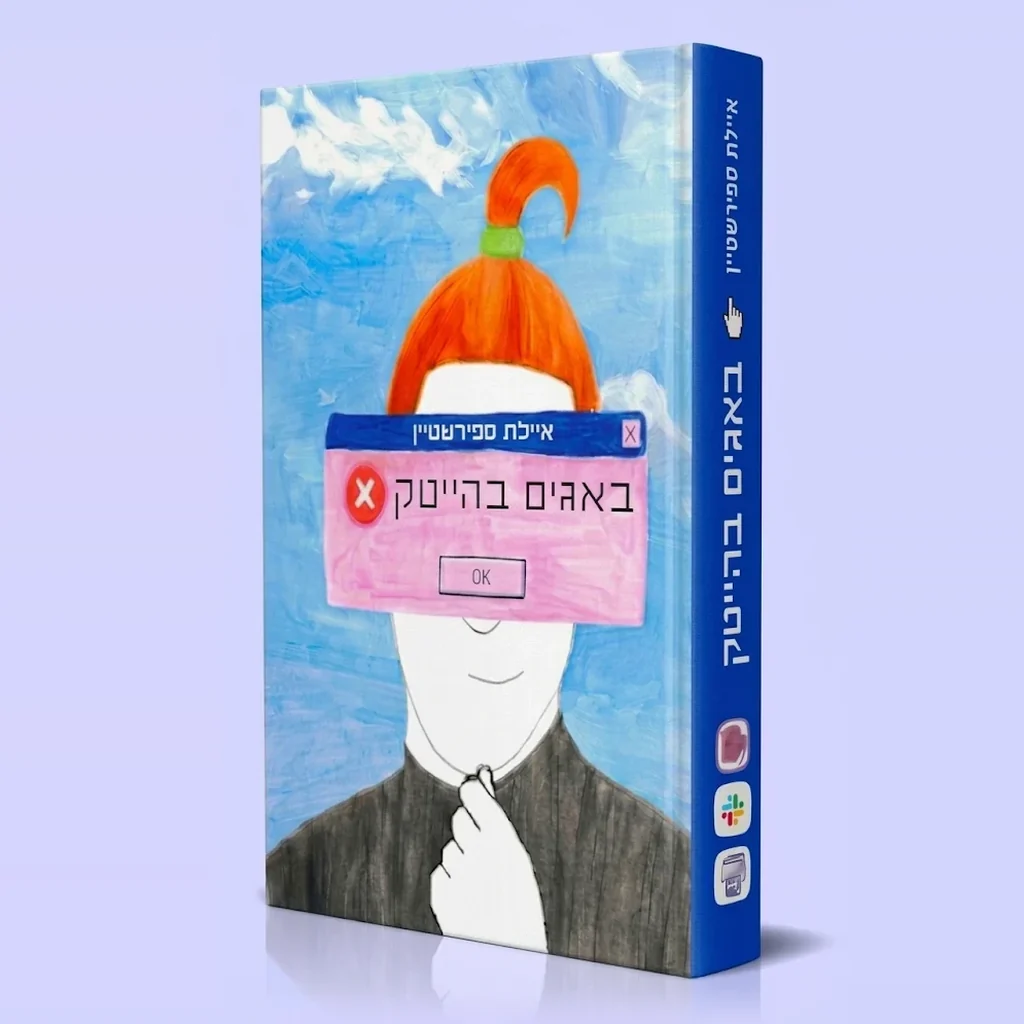
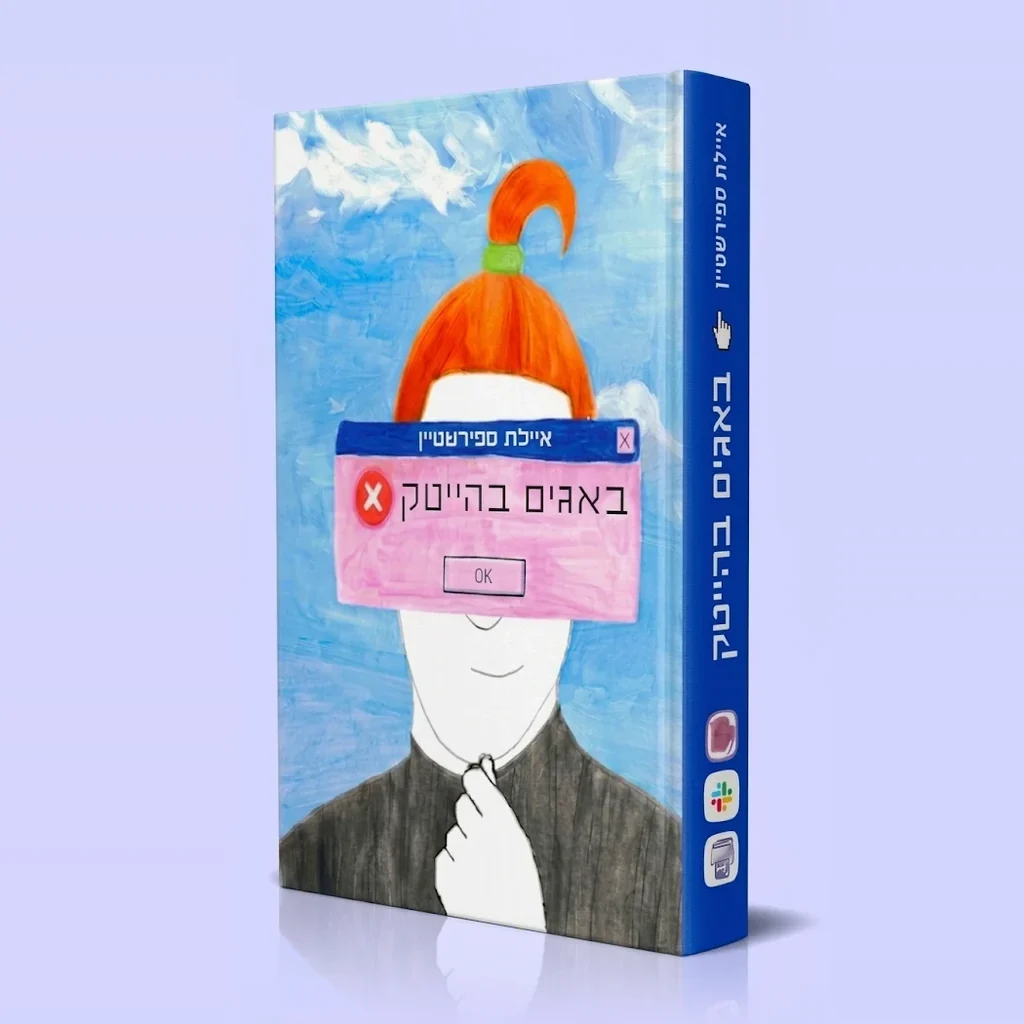
Book: medium size in featured panel and product card
Claude-Session: https://claude.ai/code/session_01J1oraSVFWXEaaBwfgBjyar

Changed region(s): [[0.25, 0.0312, 0.8125, 0.9688], [0.4688, 0.6562, 0.5, 0.6875]]

diff --git a/shop/shop.css b/shop/shop.css
@@ -19,8 +19,15 @@
   background: var(--featured-bg);
   color: var(--lav-ink);
 }
-.featured-img { order: 2; background: var(--book-bg); position: relative; min-height: 420px; }
-.featured-img img { position: absolute; inset: 0; width: 100%; height: 100%; object-fit: contain; }
+.featured-img { order: 2; background: var(--book-bg); display: grid; place-items: center; }
+.featured-img img {
+  width: 100%; height: 100%; max-height: 400px; object-fit: contain;
+  /* fade the photo's edges into the panel so no frame shows */
+  -webkit-mask-image: linear-gradient(to right, transparent, #000 5%, #000 95%, transparent), linear-gradient(to bottom, transparent, #000 5%, #000 95%, transparent);
+  -webkit-mask-composite: source-in;
+  mask-image: linear-gradient(to right, transparent, #000 5%, #000 95%, transparent), linear-gradient(to bottom, transparent, #000 5%, #000 95%, transparent);
+  mask-composite: intersect;
+}
 .featured-body {
   display: flex;
   flex-direction: column;
@@ -192,8 +199,7 @@
 @media (max-width: 800px) {
   .featured { grid-template-columns: 1fr; }
   .featured-img { order: 0; }
-  .featured-img { min-height: 0; display: grid; place-items: center; }
-  .featured-img img { position: static; height: auto; max-width: 420px; }
+  .featured-img img { max-width: 380px; max-height: none; }
   .products { grid-template-columns: repeat(2, minmax(0, 1fr)); row-gap: 2rem; }
 }
 @media (max-width: 600px) {
